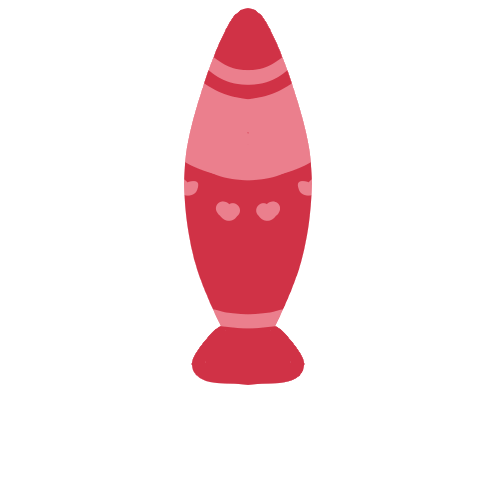
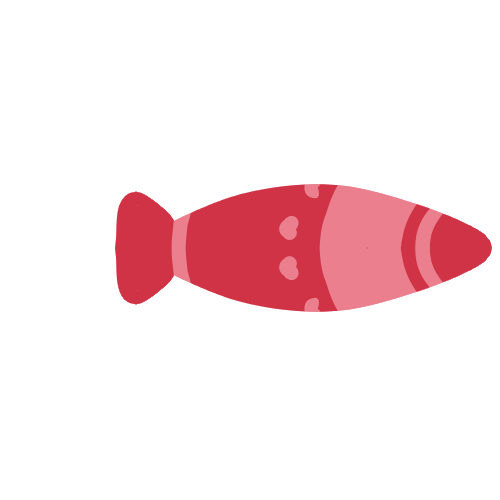
projectiles fixed

Changed region(s): [[0.21, 0.0, 0.99, 0.78]]

diff --git a/My Project/main/Projectile_Test.go b/My Project/main/Projectile_Test.go
@@ -55,7 +55,7 @@ embedded_components {
   "  shapes {\n"
   "    shape_type: TYPE_BOX\n"
   "    position {\n"
-  "      x: 6.0\n"
+  "      x: -1.0\n"
   "      y: 0.0\n"
   "      z: 0.0\n"
   "    }\n"
@@ -69,7 +69,7 @@ embedded_components {
   "    count: 3\n"
   "    id: \"\"\n"
   "  }\n"
-  "  data: 17.5\n"
+  "  data: 35.5\n"
   "  data: 10.0\n"
   "  data: 10.0\n"
   "}\n"
@@ -77,6 +77,29 @@ embedded_components {
   "angular_damping: 0.0\n"
   "locked_rotation: false\n"
   "bullet: false\n"
+  ""
+  position {
+    x: 0.0
+    y: 0.0
+    z: 0.0
+  }
+  rotation {
+    x: 0.0
+    y: 0.0
+    z: 0.0
+    w: 1.0
+  }
+}
+embedded_components {
+  id: "explosion"
+  type: "sprite"
+  data: "default_animation: \"explosion\"\n"
+  "material: \"/builtins/materials/sprite.material\"\n"
+  "blend_mode: BLEND_MODE_ALPHA\n"
+  "textures {\n"
+  "  sampler: \"texture_sampler\"\n"
+  "  texture: \"/assets/protagonist/weapons.atlas\"\n"
+  "}\n"
   ""
   position {
     x: 0.0

diff --git a/My Project/main/RangedItem.go b/My Project/main/RangedItem.go
@@ -16,7 +16,7 @@ components {
 embedded_components {
   id: "itembody"
   type: "sprite"
-  data: "default_animation: \"ranged_right\"\n"
+  data: "default_animation: \"rocket\"\n"
   "material: \"/builtins/materials/sprite.material\"\n"
   "blend_mode: BLEND_MODE_ALPHA\n"
   "textures {\n"
@@ -83,7 +83,7 @@ embedded_components {
   "  shapes {\n"
   "    shape_type: TYPE_BOX\n"
   "    position {\n"
-  "      x: 0.0\n"
+  "      x: 5.0\n"
   "      y: 0.0\n"
   "      z: 0.0\n"
   "    }\n"
@@ -97,7 +97,7 @@ embedded_components {
   "    count: 3\n"
   "    id: \"\"\n"
   "  }\n"
-  "  data: 37.5\n"
+  "  data: 30.0\n"
   "  data: 12.5\n"
   "  data: 10.0\n"
   "}\n"
